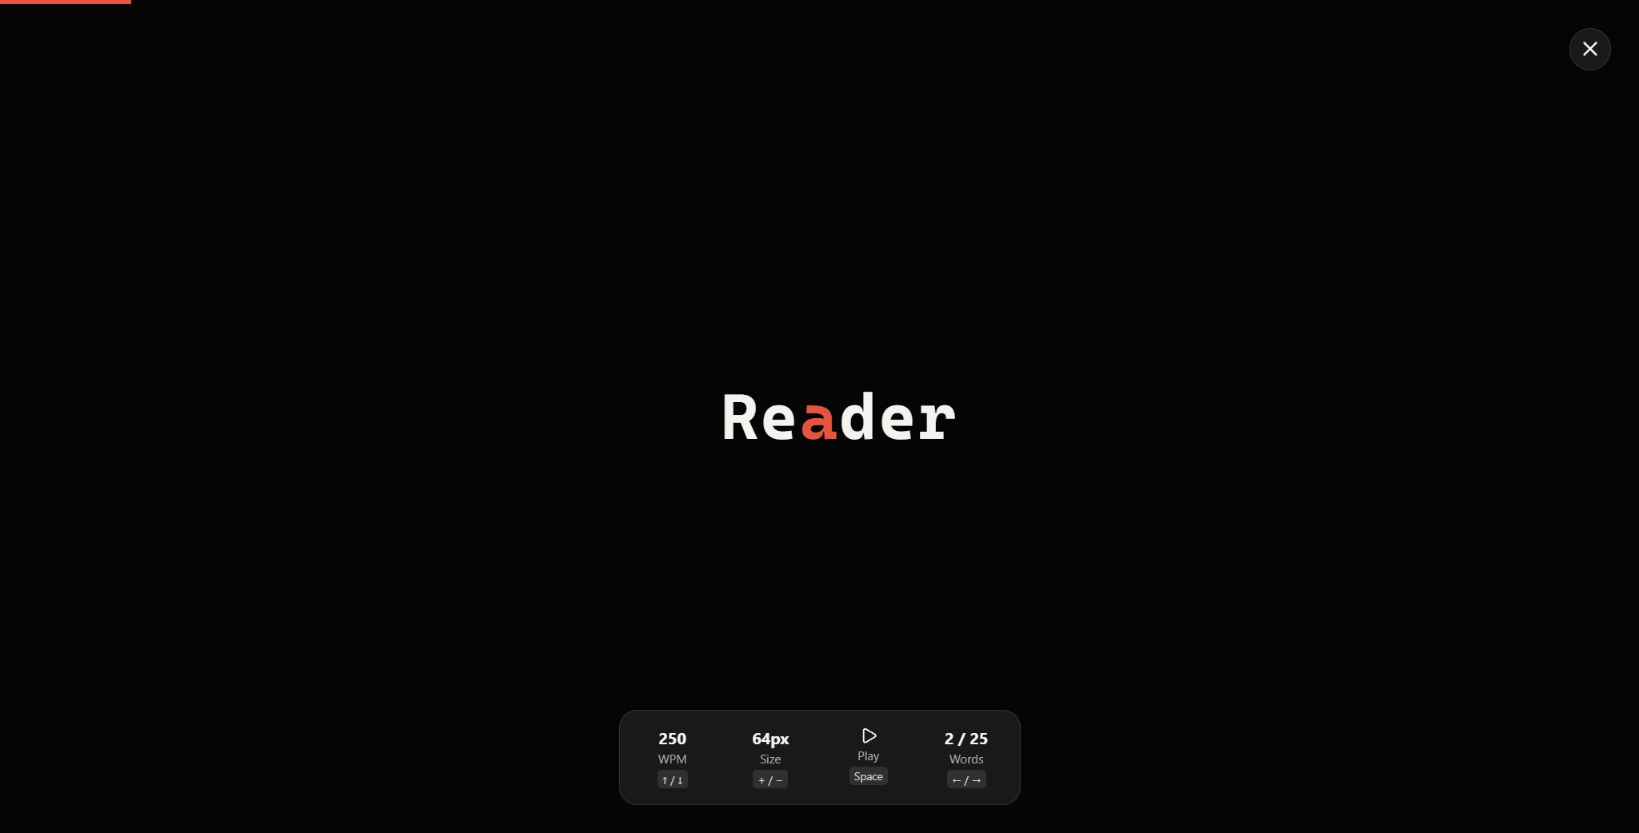
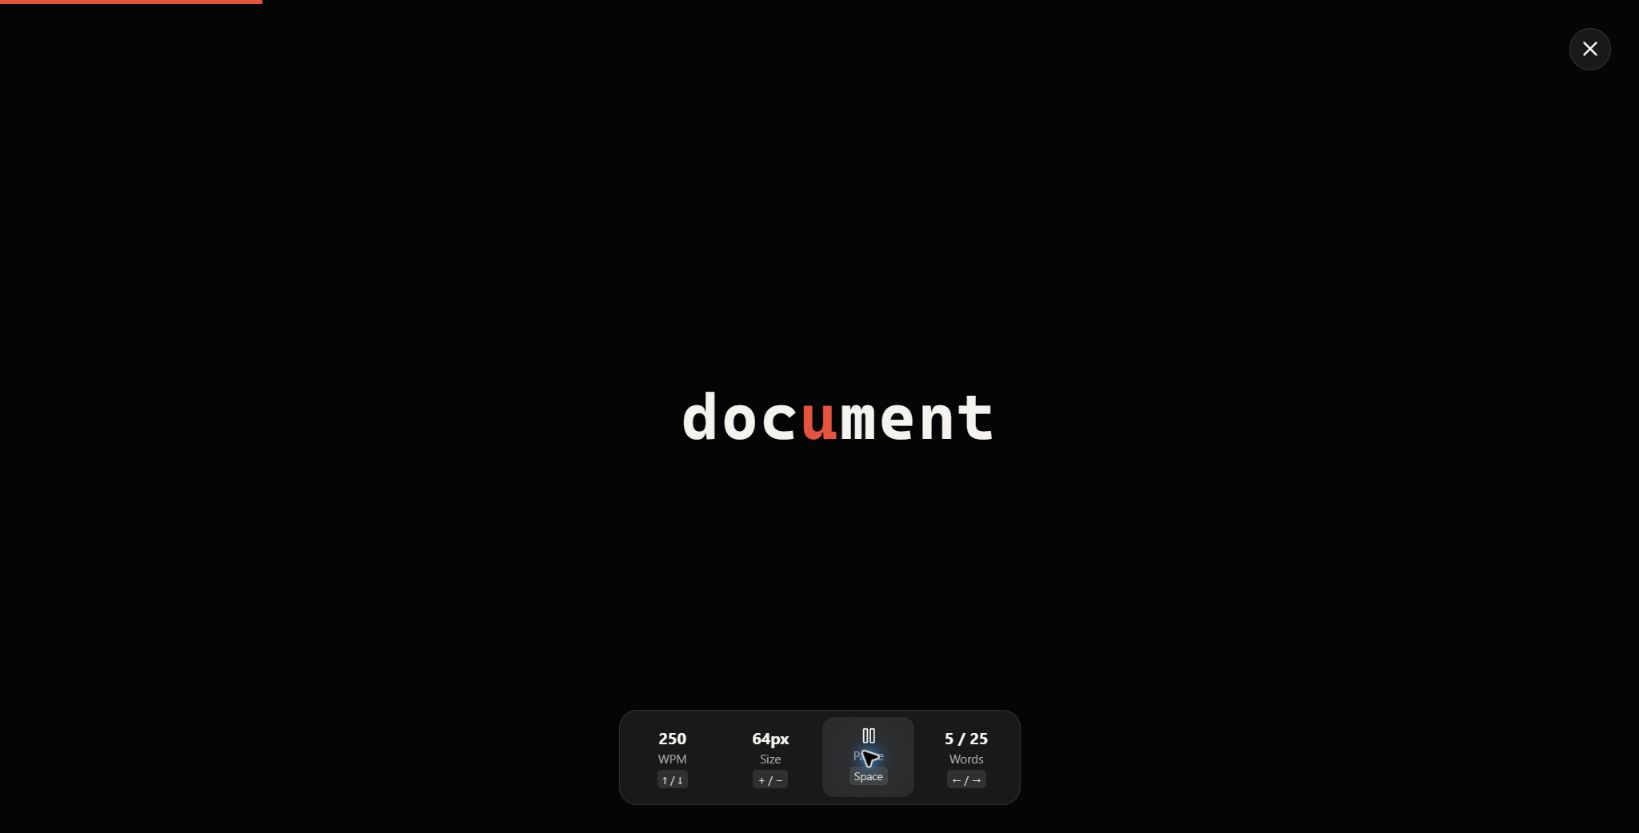
Show FastReader actively reading

diff --git a/README.md b/README.md
@@ -27,7 +27,7 @@ A private, browser-only speed reader for PDF, TXT, DOCX, and EPUB documents that
 - **Platforms:** Current desktop and mobile browsers
 - **Stack:** React, TypeScript, Vite, IndexedDB, PDF.js, Mammoth, and JSZip
 
-[![FastReader local library](fast-reader/docs/images/library.png)](fast-reader/)
+[![FastReader actively reading a local test document](fast-reader/docs/images/reader.png)](fast-reader/)
 
 More projects will be added over time. Each project has its own directory, documentation, requirements, and launch instructions.
 
